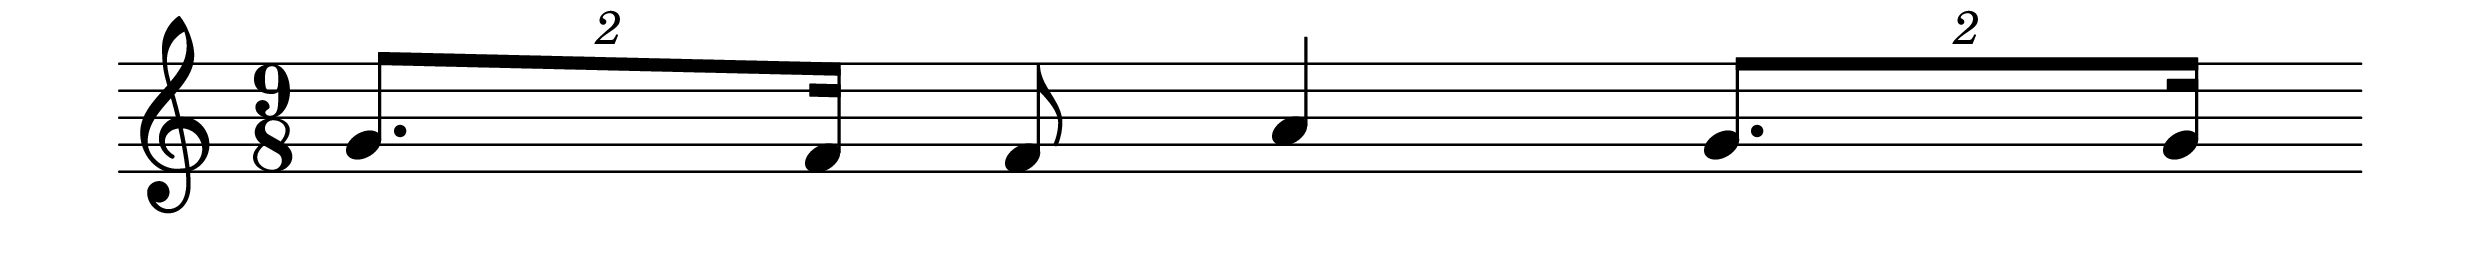
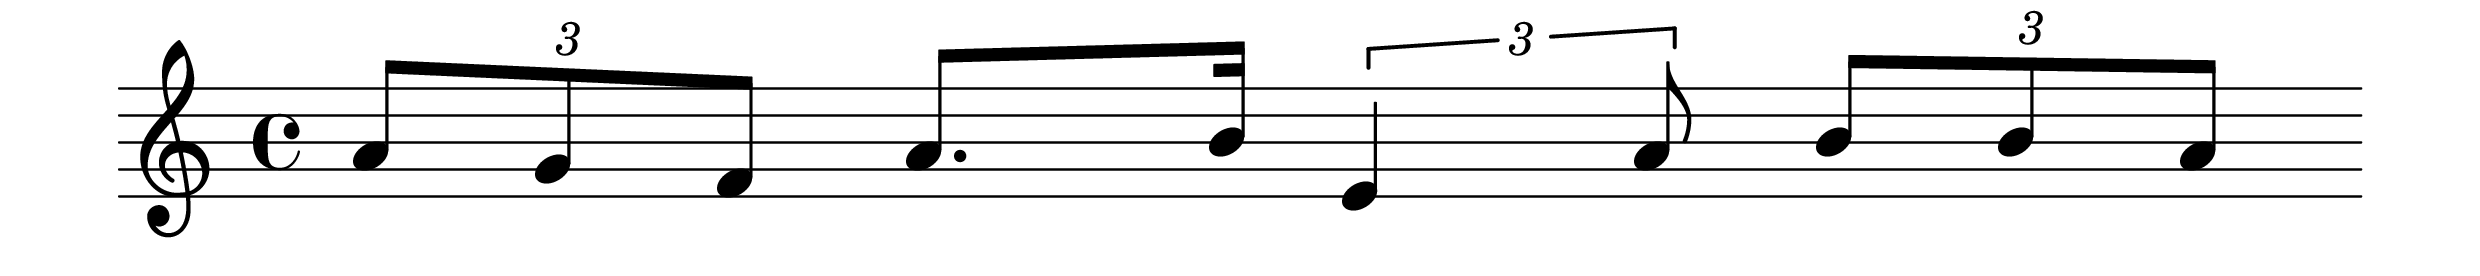
Add files via upload

diff --git a/mainv2.py b/mainv2.py
@@ -1,0 +1,69 @@
+
+from melody import main_generate
+from notation import fun_emoji_list
+import asyncio,random
+from asynchronous import score_generation
+import streamlit as st
+from streamlit_extras.let_it_rain import rain
+if 'option_selected' not in st.session_state:
+        st.session_state.option_selected = []
+st.set_page_config(
+    page_title="Simple Compound Time Translation Quiz")
+def display_question(question_data):
+    st.subheader(question_data['question'])
+    st.image("static/cropped_score_question_melody.png", caption='Question')
+    """_________________________"""
+
+    if 'option_selected' not in st.session_state:
+        st.session_state.option_selected = None
+
+    def select_option(idx):
+        if st.session_state.option_selected is not None:
+            st.session_state[f"disabled_{st.session_state.option_selected}"] = False
+        st.session_state.option_selected = idx
+        st.session_state[f"disabled_{idx}"] = True
+
+    for idx, option in enumerate(question_data['options']):
+        container = st.container()
+        col1, col2 = container.columns([5, 1])
+        col1.image(f"static/cropped_score_wr_option_{idx}.png")
+        
+        if f"disabled_{idx}" not in st.session_state:
+            st.session_state[f"disabled_{idx}"] = False
+
+        col2.button(
+            f'Option {idx + 1}',
+            key=f"option_{idx}",
+            on_click=select_option,
+            args=(idx,),
+            disabled=st.session_state[f"disabled_{idx}"]
+        )
+
+    if st.button("Submit Answer"):
+        correct_idx = None
+        for idx, (time, melody) in enumerate(question_data["options"]):
+            if time == question_data["answer"][0] and melody == question_data["answer"][1]:
+                correct_idx = idx
+                break
+
+        if st.session_state.option_selected == correct_idx:
+            fun_emoji = random.choice(fun_emoji_list)
+            st.success(f"Correct! {fun_emoji}")
+            rain(emoji=fun_emoji, animation_length="1")
+        else:
+            st.error(f"Wrong answer! The correct answer is Option {correct_idx + 1}")
+
+
+if __name__ == "__main__":
+    st.title("Compound-simple-time Modulation Quiz")
+    if 'question_data' not in st.session_state:
+        
+        st.session_state.question_data = main_generate()
+        print(st.session_state.question_data)
+        asyncio.run(score_generation(st.session_state.question_data))
+
+    if st.button("Generate New Question"):
+        st.session_state.question_data = main_generate()
+        asyncio.run(score_generation(st.session_state.question_data))
+    display_question(st.session_state.question_data)
+    print(st.session_state.question_data)

diff --git a/asynchronous.py b/asynchronous.py
@@ -5,7 +5,7 @@ import os
 from score_gen import format_melody
 async def lilypond_generation(melody, name, uppertime, lowertime):
     lilypond_score = f"""
-\\version "2.22.0"  
+\\version "2.24.1"  
 \\header {{
   tagline = "" \\language "english"
 }}
@@ -43,9 +43,7 @@ async def lilypond_generation(melody, name, uppertime, lowertime):
     with Image.open(f'temp/score_{name}.png') as img:
         width, height = img.size
         crop_height = height
-        upper = 0
-        lower = 300
-        crop_rectangle = (0, upper, width, lower)
+        crop_rectangle = (0, 75, width, crop_height / 10)
         cropped_img = img.crop(crop_rectangle)
 
         os.makedirs('static', exist_ok=True)
